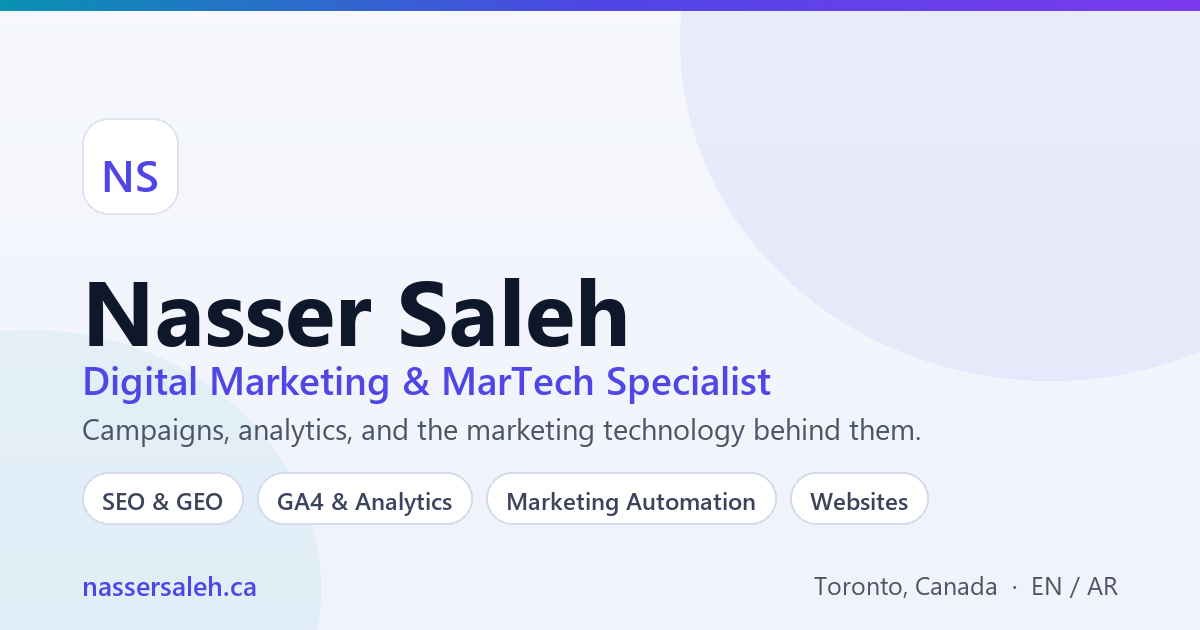
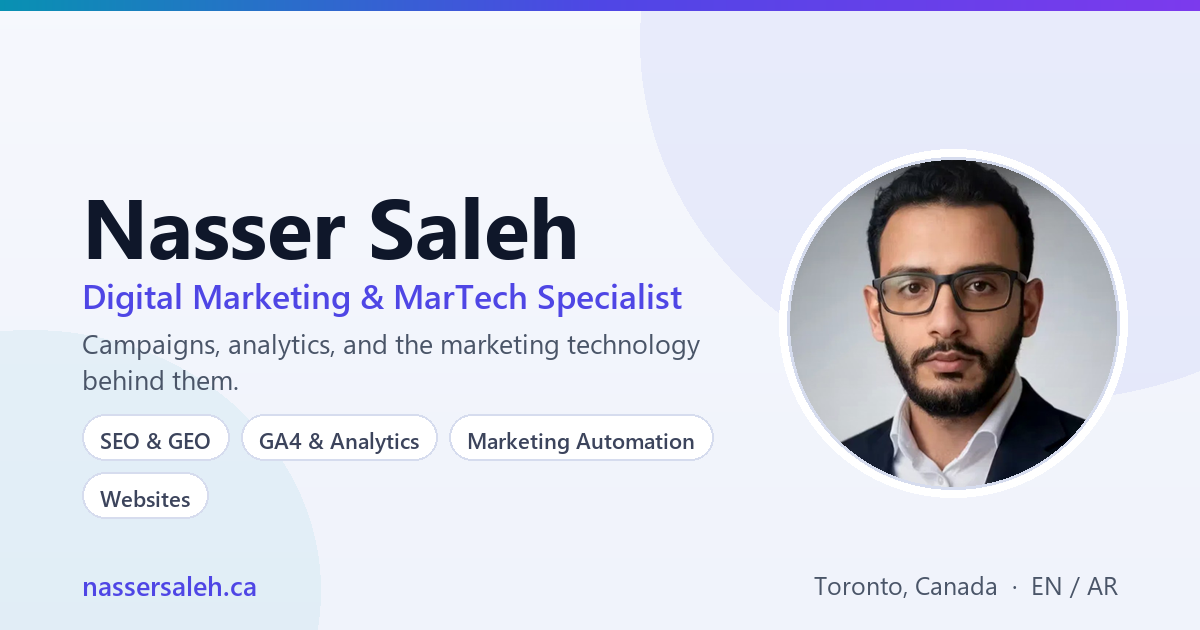
Add headshot to About + social card
- public/assets/headshot.jpg (900x900, 68 KB) from the 1920px source;
  scripts/make_headshot.py regenerates it from any photo
- About section now shows the photo instead of the NS monogram; portrait card
  raised to 560px so it balances the bio column, top-only corner rounding since
  the location bar sits beneath it, descriptive alt text
- OG social card rebuilt with a circular headshot (a face lifts click-through
  on LinkedIn vs a text-only card)
- JSON-LD Person.image now points at the real headshot as an ImageObject with
  dimensions + caption, which is what answer engines use for entity resolution

Changed region(s): [[0.0617, 0.2413, 0.9558, 0.8444]]

diff --git a/src/data/content.ts b/src/data/content.ts
@@ -40,8 +40,8 @@ export const profile = {
 }
 
 export const about = {
-  /** Replace with a real professional headshot at /public/assets/headshot.jpg */
-  headshot: '',
+  /** Regenerate with: python scripts/make_headshot.py "<path to photo>" */
+  headshot: `${import.meta.env.BASE_URL}assets/headshot.jpg`,
   paragraphs: [
     "I'm a digital marketing specialist based in Toronto who works at the intersection of marketing, data, and technology. Over the last four years I've run PPC and SEO campaigns, owned analytics in GA4 and SEMrush, produced competitive and audience research, and led content and brand work across non-profit and for-profit teams — consistently turning data into decisions that move traffic, engagement, and ROI.",
     "What sets me apart is the tech side. I don't just brief the tools — I set them up and run them: marketing websites, local-SEO landing pages, marketing-automation workflows, conversion tracking, and booking/CRM funnels. That lets me launch a campaign end-to-end and measure exactly what's working, without waiting on a dev queue.",

diff --git a/src/components/About.tsx b/src/components/About.tsx
@@ -16,8 +16,18 @@ export default function About() {
               {about.headshot ? (
                 <img
                   src={about.headshot}
-                  alt={profile.name}
-                  style={{ width: '100%', height: '100%', objectFit: 'cover', borderRadius: 'inherit' }}
+                  alt={`${profile.name} — ${profile.roleTitle}`}
+                  width={900}
+                  height={900}
+                  style={{
+                    width: '100%',
+                    flex: 1,
+                    minHeight: 0,
+                    objectFit: 'cover',
+                    objectPosition: 'center 22%',
+                    // only the top corners — the location/languages bar sits below
+                    borderRadius: 'var(--radius) var(--radius) 0 0',
+                  }}
                 />
               ) : (
                 <div className="about-portrait-fallback">

diff --git a/index.html b/index.html
@@ -51,7 +51,13 @@
             "jobTitle": "Digital Marketing & MarTech Specialist",
             "description": "Toronto-based Digital Marketing & MarTech Specialist who pairs campaign delivery with hands-on analytics and marketing technology — SEO and GEO, GA4, marketing automation, and the websites and lead funnels behind them.",
             "url": "https://nassersaleh.ca",
-            "image": "https://nassersaleh.ca/assets/og-image.png",
+            "image": {
+              "@type": "ImageObject",
+              "url": "https://nassersaleh.ca/assets/headshot.jpg",
+              "width": 900,
+              "height": 900,
+              "caption": "Nasser Saleh, Digital Marketing & MarTech Specialist, Toronto"
+            },
             "email": "mailto:nassersaleh156@gmail.com",
             "telephone": "+1-438-988-6709",
             "address": {

diff --git a/src/index.css b/src/index.css
@@ -422,7 +422,7 @@ h1, h2, h3, h4, .section-title, .eyebrow {
   position: relative;
   border-radius: var(--radius);
   overflow: hidden;
-  min-height: 420px;
+  min-height: 560px; /* portrait proportions, balances the bio column */
   display: flex;
   flex-direction: column;
 }

diff --git a/scripts/make_og_image.py b/scripts/make_og_image.py
@@ -1,11 +1,13 @@
 # Generates public/assets/og-image.png (1200x630) — the social preview card
 # shown when nassersaleh.ca is pasted into LinkedIn, email, Slack, WhatsApp.
+# Uses public/assets/headshot.jpg if present (a face lifts click-through a lot).
 # Run:  python scripts/make_og_image.py
 import os
 from PIL import Image, ImageDraw, ImageFont
 
 W, H = 1200, 630
 OUT = os.path.join("public", "assets", "og-image.png")
+HEADSHOT = os.path.join("public", "assets", "headshot.jpg")
 
 INK = (15, 23, 42)
 MUTED = (74, 85, 104)
@@ -32,18 +34,30 @@ def lerp(a, b, t):
     return tuple(int(round(a[i] + (b[i] - a[i]) * t)) for i in range(3))
 
 
+def wrap(draw, text, fnt, max_w):
+    words, lines, cur = text.split(), [], ""
+    for wd in words:
+        trial = (cur + " " + wd).strip()
+        if draw.textbbox((0, 0), trial, font=fnt)[2] <= max_w:
+            cur = trial
+        else:
+            if cur:
+                lines.append(cur)
+            cur = wd
+    if cur:
+        lines.append(cur)
+    return lines
+
+
 img = Image.new("RGB", (W, H), (245, 247, 252))
 d = ImageDraw.Draw(img)
 
-# soft diagonal wash so the card doesn't read as flat white
 for y in range(H):
-    t = y / H
-    d.line([(0, y), (W, y)], fill=lerp((246, 248, 253), (233, 237, 249), t))
+    d.line([(0, y), (W, y)], fill=lerp((246, 248, 253), (233, 237, 249), y / H))
 
-# corner glow (accent, very light)
 glow = Image.new("RGB", (W, H), (246, 248, 253))
 gd = ImageDraw.Draw(glow)
-gd.ellipse([W - 520, -300, W + 220, 380], fill=(222, 226, 250))
+gd.ellipse([W - 560, -320, W + 240, 400], fill=(222, 226, 250))
 gd.ellipse([-260, H - 300, 320, H + 220], fill=(219, 238, 245))
 img = Image.blend(img, glow, 0.55)
 d = ImageDraw.Draw(img)
@@ -55,40 +69,62 @@ for x in range(W):
     d.line([(x, 0), (x, 10)], fill=c)
 
 PAD = 82
+has_photo = os.path.exists(HEADSHOT)
+TEXT_W = 680 if has_photo else 1000
 
-# monogram tile
-box = [PAD, 118, PAD + 96, 214]
-d.rounded_rectangle(box, radius=26, fill=CARD, outline=(224, 228, 240), width=2)
-f_mono = font(["seguisb.ttf"], 44, bold=True)
-mw = d.textbbox((0, 0), "NS", font=f_mono)
-d.text((box[0] + (96 - (mw[2] - mw[0])) / 2, box[1] + (96 - (mw[3] - mw[1])) / 2 - 6),
-       "NS", font=f_mono, fill=INDIGO)
+# ---- headshot, circular, right side ----
+if has_photo:
+    D = 330
+    cx, cy = W - PAD - D // 2, H // 2 + 8
+    photo = Image.open(HEADSHOT).convert("RGB")
+    s = min(photo.size)
+    photo = photo.crop(((photo.width - s) // 2, (photo.height - s) // 2,
+                        (photo.width - s) // 2 + s, (photo.height - s) // 2 + s))
+    photo = photo.resize((D, D), Image.LANCZOS)
 
-# name
-f_name = font(["segoeuib.ttf"], 92, bold=True)
-d.text((PAD, 246), "Nasser Saleh", font=f_name, fill=INK)
+    mask = Image.new("L", (D * 4, D * 4), 0)
+    ImageDraw.Draw(mask).ellipse([0, 0, D * 4, D * 4], fill=255)
+    mask = mask.resize((D, D), Image.LANCZOS)
 
-# role
-f_role = font(["seguisb.ttf"], 39, bold=True)
-d.text((PAD, 352), "Digital Marketing & MarTech Specialist", font=f_role, fill=INDIGO)
+    # soft ring behind the photo
+    d.ellipse([cx - D // 2 - 9, cy - D // 2 - 9, cx + D // 2 + 9, cy + D // 2 + 9], fill=CARD)
+    img.paste(photo, (cx - D // 2, cy - D // 2), mask)
+    d.ellipse([cx - D // 2 - 1, cy - D // 2 - 1, cx + D // 2 + 1, cy + D // 2 + 1],
+              outline=(214, 220, 238), width=3)
 
-# supporting line
-f_sub = font(["segoeui.ttf"], 29)
-d.text((PAD, 408), "Campaigns, analytics, and the marketing technology behind them.",
-       font=f_sub, fill=MUTED)
+# ---- text block ----
+y = 168 if has_photo else 246
 
-# capability chips
-f_chip = font(["seguisb.ttf"], 24, bold=True)
+f_name = font(["segoeuib.ttf"], 84 if has_photo else 92, bold=True)
+d.text((PAD, y), "Nasser Saleh", font=f_name, fill=INK)
+y += 104
+
+f_role = font(["seguisb.ttf"], 34 if has_photo else 39, bold=True)
+for line in wrap(d, "Digital Marketing & MarTech Specialist", f_role, TEXT_W):
+    d.text((PAD, y), line, font=f_role, fill=INDIGO)
+    y += 44
+y += 8
+
+f_sub = font(["segoeui.ttf"], 27)
+for line in wrap(d, "Campaigns, analytics, and the marketing technology behind them.", f_sub, TEXT_W):
+    d.text((PAD, y), line, font=f_sub, fill=MUTED)
+    y += 36
+y += 18
+
+# capability chips (wrap within the text column)
+f_chip = font(["seguisb.ttf"], 22, bold=True)
 x = PAD
 for label in ["SEO & GEO", "GA4 & Analytics", "Marketing Automation", "Websites"]:
-    tb = d.textbbox((0, 0), label, font=f_chip)
-    w = tb[2] - tb[0]
-    d.rounded_rectangle([x, 472, x + w + 40, 524], radius=26, fill=CARD,
+    tw = d.textbbox((0, 0), label, font=f_chip)[2]
+    if x + tw + 36 > PAD + TEXT_W:
+        x = PAD
+        y += 58
+    d.rounded_rectangle([x, y, x + tw + 36, y + 46], radius=23, fill=CARD,
                         outline=(214, 220, 238), width=2)
-    d.text((x + 20, 484), label, font=f_chip, fill=(60, 68, 92))
-    x += w + 40 + 14
+    d.text((x + 18, y + 11), label, font=f_chip, fill=(60, 68, 92))
+    x += tw + 36 + 12
 
-# footer: domain + location
+# ---- footer ----
 f_dom = font(["seguisb.ttf"], 27, bold=True)
 d.text((PAD, 566), "nassersaleh.ca", font=f_dom, fill=INDIGO)
 f_loc = font(["segoeui.ttf"], 25)
@@ -98,4 +134,4 @@ d.text((W - PAD - (lb[2] - lb[0]), 568), loc, font=f_loc, fill=MUTED)
 
 os.makedirs(os.path.dirname(OUT), exist_ok=True)
 img.save(OUT, "PNG", optimize=True)
-print(f"WROTE {OUT}  ({os.path.getsize(OUT)/1024:.0f} KB, {W}x{H})")
+print(f"WROTE {OUT}  ({os.path.getsize(OUT)/1024:.0f} KB, {W}x{H}, photo={'yes' if has_photo else 'no'})")

diff --git a/scripts/make_headshot.py b/scripts/make_headshot.py
@@ -1,0 +1,46 @@
+# Prepares a headshot for the About section.
+#   python scripts/make_headshot.py "C:\path\to\your-photo.jpg"
+#
+# Fixes EXIF rotation, crops to a square centred on the face area (biased
+# slightly toward the top, which is right for portraits), resizes, and writes
+# an optimized public/assets/headshot.jpg.
+import os
+import sys
+from PIL import Image, ImageOps
+
+SIZE = 900  # final square, plenty for a ~420px display slot on retina
+OUT = os.path.join("public", "assets", "headshot.jpg")
+
+
+def main() -> int:
+    if len(sys.argv) < 2:
+        print('Usage: python scripts/make_headshot.py "C:\\path\\to\\photo.jpg"')
+        return 1
+    src = sys.argv[1]
+    if not os.path.exists(src):
+        print(f"Not found: {src}")
+        return 1
+
+    im = Image.open(src)
+    im = ImageOps.exif_transpose(im)  # honour phone/camera rotation
+    im = im.convert("RGB")
+    w, h = im.size
+
+    # Square crop. For portraits the subject sits above centre, so bias upward
+    # instead of taking the exact middle (which tends to cut the top of the head).
+    side = min(w, h)
+    left = (w - side) // 2
+    top = int((h - side) * 0.30) if h > w else (h - side) // 2
+    im = im.crop((left, top, left + side, top + side))
+
+    im = im.resize((SIZE, SIZE), Image.LANCZOS)
+
+    os.makedirs(os.path.dirname(OUT), exist_ok=True)
+    im.save(OUT, "JPEG", quality=88, optimize=True, progressive=True)
+    print(f"WROTE {OUT}  ({os.path.getsize(OUT)/1024:.0f} KB, {SIZE}x{SIZE}, from {w}x{h})")
+    print("Next: set about.headshot = '/assets/headshot.jpg' in src/data/content.ts")
+    return 0
+
+
+if __name__ == "__main__":
+    raise SystemExit(main())
